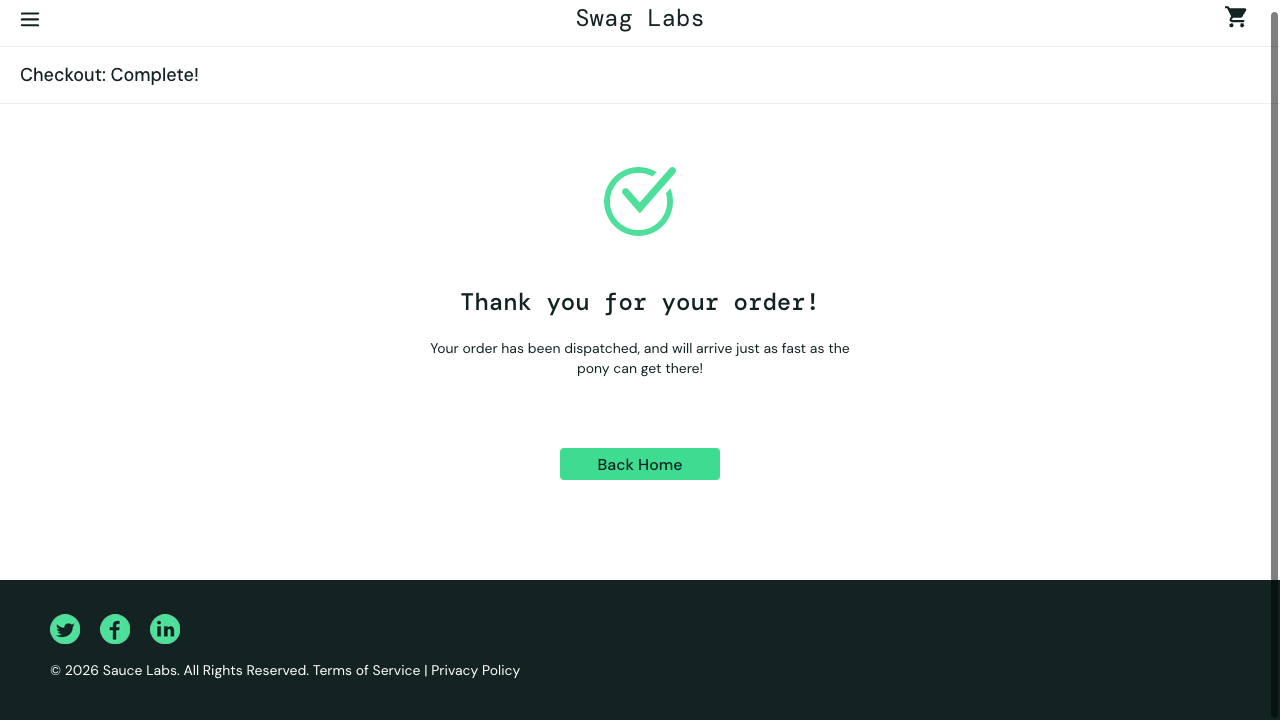
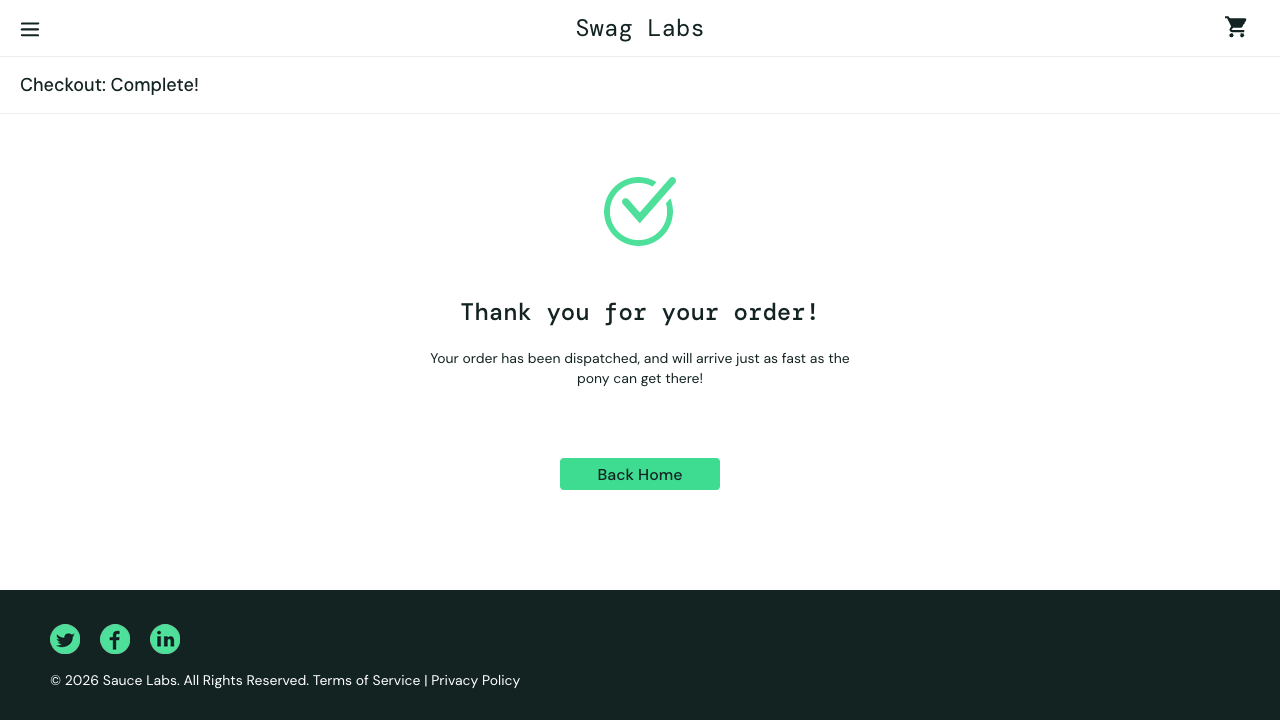
End to End CheckoutFlow

diff --git a/src/main/java/pages/CheckoutOverviewPage.java b/src/main/java/pages/CheckoutOverviewPage.java
@@ -1,0 +1,59 @@
+package pages;
+
+import com.microsoft.playwright.Page;
+
+public class CheckoutOverviewPage {
+
+    private Page page;
+
+    public CheckoutOverviewPage(Page page) {
+        this.page = page;
+    }
+
+    // Get Product Name
+    public String getProductName() {
+        return page.locator(".inventory_item_name").textContent();
+    }
+
+    // Get Product Price
+    public String getProductPrice() {
+        return page.locator(".inventory_item_price").textContent();
+    }
+
+    // Get Payment Information
+    public String getPaymentInformation() {
+        return page.locator("[data-test='payment-info-value']").textContent();
+    }
+
+    // Get Shipping Information
+    public String getShippingInformation() {
+        return page.locator("[data-test='shipping-info-value']").textContent();
+    }
+
+    // Get Item Total
+    public String getItemTotal() {
+        return page.locator(".summary_subtotal_label").textContent();
+    }
+
+    // Get Tax
+    public String getTax() {
+        return page.locator(".summary_tax_label").textContent();
+    }
+
+    // Get Total Price
+    public String getTotalPrice() {
+        return page.locator(".summary_total_label").textContent();
+    }
+
+    // Click Finish
+    public CheckoutCompletePage clickFinish() {
+        page.locator("#finish").click();
+        return new CheckoutCompletePage(page);
+    }
+
+    // Click Cancel
+    public ProductPage clickCancel() {
+        page.locator("#cancel").click();
+        return new ProductPage(page);
+    }
+}

diff --git a/src/main/java/pages/ProductDetailsPage.java b/src/main/java/pages/ProductDetailsPage.java
@@ -1,0 +1,54 @@
+package pages;
+
+import com.microsoft.playwright.Page;
+
+public class ProductDetailsPage {
+
+    private Page page;
+
+    // Constructor
+    public ProductDetailsPage(Page page) {
+        this.page = page;
+    }
+
+    // Product Name
+    public String getProductName() {
+        return page.locator(".inventory_details_name").textContent();
+    }
+
+    // Product Description
+    public String getProductDescription() {
+        return page.locator(".inventory_details_desc").textContent();
+    }
+
+    // Product Price
+    public String getProductPrice() {
+        return page.locator(".inventory_details_price").textContent();
+    }
+
+    // Click Add to Cart
+    public void addToCart() {
+        page.locator("#add-to-cart").click();
+    }
+
+    // Click Remove
+    public void removeFromCart() {
+        page.locator("#remove").click();
+    }
+
+    // Back to Products
+    public void goBackToProducts() {
+        page.locator("#back-to-products").click();
+    }
+
+    public void clickProduct(String productName) {
+
+        page.locator("//div[text()='" + productName + "']").click();
+    }
+
+    public boolean isProductPageDisplayed() {
+
+        return page.locator(".title").textContent().equals("Products");
+    }
+
+}

diff --git a/src/test/java/tests/ProductDetailsTest.java b/src/test/java/tests/ProductDetailsTest.java
@@ -1,0 +1,35 @@
+package tests;
+
+import base.BaseTest;
+import org.testng.Assert;
+import org.testng.annotations.Test;
+import pages.ProductDetailsPage;
+import pages.ProductPage;
+
+public class ProductDetailsTest extends BaseTest {
+
+    @Test
+    public void verifyProductDetails() {
+
+        ProductPage productPage = new ProductPage(page);
+
+        productPage.clickProduct("Sauce Labs Backpack");
+
+        ProductDetailsPage detailsPage = new ProductDetailsPage(page);
+
+        Assert.assertEquals(
+                detailsPage.getProductName(),
+                "Sauce Labs Backpack");
+
+        Assert.assertEquals(
+                detailsPage.getProductPrice(),
+                "$29.99");
+
+        Assert.assertTrue(
+                detailsPage.getProductDescription().contains("carry"));
+
+        detailsPage.goBackToProducts();
+
+        Assert.assertTrue(productPage.isProductPageDisplayed());
+    }
+}

diff --git a/src/main/java/pages/CheckoutCompletePage.java b/src/main/java/pages/CheckoutCompletePage.java
@@ -1,0 +1,33 @@
+package pages;
+
+import com.microsoft.playwright.Page;
+
+public class CheckoutCompletePage {
+
+    private Page page;
+
+    public CheckoutCompletePage(Page page) {
+        this.page = page;
+    }
+
+    // Verify Success Header
+    public String getSuccessHeader() {
+        return page.locator(".complete-header").textContent();
+    }
+
+    // Verify Success Message
+    public String getSuccessMessage() {
+        return page.locator(".complete-text").textContent();
+    }
+
+    // Verify Image Displayed
+    public boolean isSuccessImageDisplayed() {
+        return page.locator(".pony_express").isVisible();
+    }
+
+    // Back Home
+    public ProductPage clickBackHome() {
+        page.locator("#back-to-products").click();
+        return new ProductPage(page);
+    }
+}

diff --git a/src/main/java/pages/ProductPage.java b/src/main/java/pages/ProductPage.java
@@ -28,30 +28,44 @@ public class ProductPage {
         return page.locator(".shopping_cart_badge").textContent();
     }
 
-    public void openCart() {
+    // Page Chaining
+    public CartPage openCart() {
         page.locator(".shopping_cart_link").click();
+        return new CartPage(page);
     }
+
     public void sortByLowToHigh() {
         page.locator(".product_sort_container").selectOption("lohi");
     }
+
     public List<Double> getProductPrices() {
 
         List<String> prices = page.locator(".inventory_item_price").allTextContents();
 
         List<Double> actualPrices = new ArrayList<>();
 
-        for(String price : prices) {
-            actualPrices.add(Double.parseDouble(price.replace("$","")));
+        for (String price : prices) {
+            actualPrices.add(Double.parseDouble(price.replace("$", "")));
         }
 
         return actualPrices;
     }
+
     public void addProduct(String productName) {
-
-        page.locator("//div[text()='" + productName + "']/ancestor::div[@class='inventory_item']//button").click();
+        page.locator("//div[text()='" + productName +
+                "']/ancestor::div[@class='inventory_item']//button").click();
     }
-    public void removeProduct(String productName) {
 
-        page.locator("//div[text()='" + productName + "']/ancestor::div[@class='inventory_item']//button").click();
+    public void removeProduct(String productName) {
+        page.locator("//div[text()='" + productName +
+                "']/ancestor::div[@class='inventory_item']//button").click();
+    }
+
+    public void clickProduct(String productName) {
+        page.locator("//div[text()='" + productName + "']").click();
+    }
+
+    public boolean isProductPageDisplayed() {
+        return page.locator(".inventory_list").isVisible();
     }
 }

diff --git a/src/main/java/pages/CheckoutPage.java b/src/main/java/pages/CheckoutPage.java
@@ -10,27 +10,21 @@ public class CheckoutPage {
         this.page = page;
     }
 
-    public void enterFirstName(String firstName) {
+    public CheckoutOverviewPage enterCheckoutInformation(
+            String firstName,
+            String lastName,
+            String zipCode) {
+
         page.locator("#first-name").fill(firstName);
-    }
 
-    public void enterLastName(String lastName) {
         page.locator("#last-name").fill(lastName);
-    }
 
-    public void enterPostalCode(String postalCode) {
-        page.locator("#postal-code").fill(postalCode);
-    }
+        page.locator("#postal-code").fill(zipCode);
 
-    public void clickContinue() {
         page.locator("#continue").click();
+
+        return new CheckoutOverviewPage(page);
     }
 
-    public void clickFinish() {
-        page.locator("#finish").click();
-    }
 
-    public String getSuccessMessage() {
-        return page.locator(".complete-header").textContent();
-    }
 }

diff --git a/src/test/java/tests/AddToCartTest.java b/src/test/java/tests/AddToCartTest.java
@@ -1,26 +1,21 @@
 package tests;
 
 import base.BaseTest;
+import org.testng.Assert;
 import org.testng.annotations.Test;
+
 import pages.ProductPage;
 
-
-import static org.testng.Assert.assertEquals;
 
 public class AddToCartTest extends BaseTest {
 
     @Test
-    public void addToCartTest() {
+    public void addToCart() {
 
         ProductPage productPage = new ProductPage(page);
 
-        //Adding product with dynamic locator
         productPage.addProduct("Sauce Labs Backpack");
-        productPage.addProduct("Sauce Labs Bike Light");
-        assertEquals("2", productPage.getCartCount());
 
-        productPage.removeProduct("Sauce Labs Backpack");
-        assertEquals("1", productPage.getCartCount());
+        Assert.assertEquals(productPage.getCartCount(), "1");
     }
-
 }

diff --git a/src/main/java/pages/CartPage.java b/src/main/java/pages/CartPage.java
@@ -14,7 +14,8 @@ public class CartPage {
         return page.locator("text=Sauce Labs Backpack").isVisible();
     }
 
-    public void clickCheckout() {
+    public CheckoutPage clickCheckout() {
         page.locator("#checkout").click();
+        return new CheckoutPage(page);
     }
 }

diff --git a/src/main/java/utils/ConfigReader.java b/src/main/java/utils/ConfigReader.java
@@ -20,4 +20,7 @@ public class ConfigReader {
     public static String get(String key) {
         return prop.getProperty(key);
     }
+    public static String getProperty(String key) {
+        return prop.getProperty(key);
+    }
 }